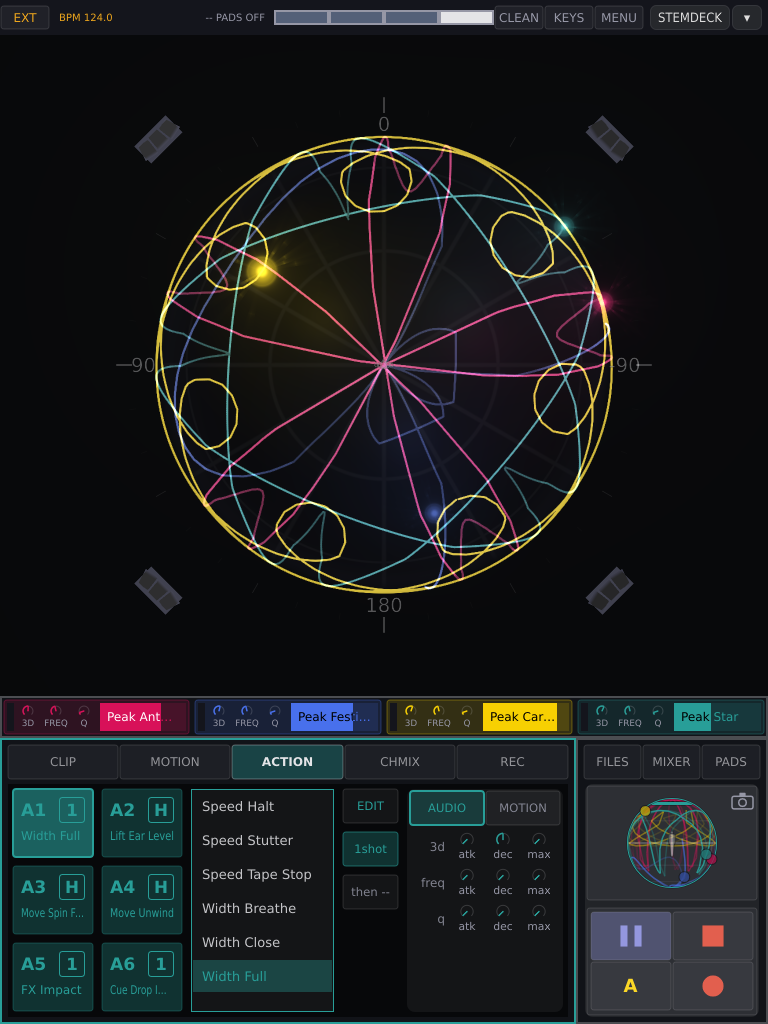
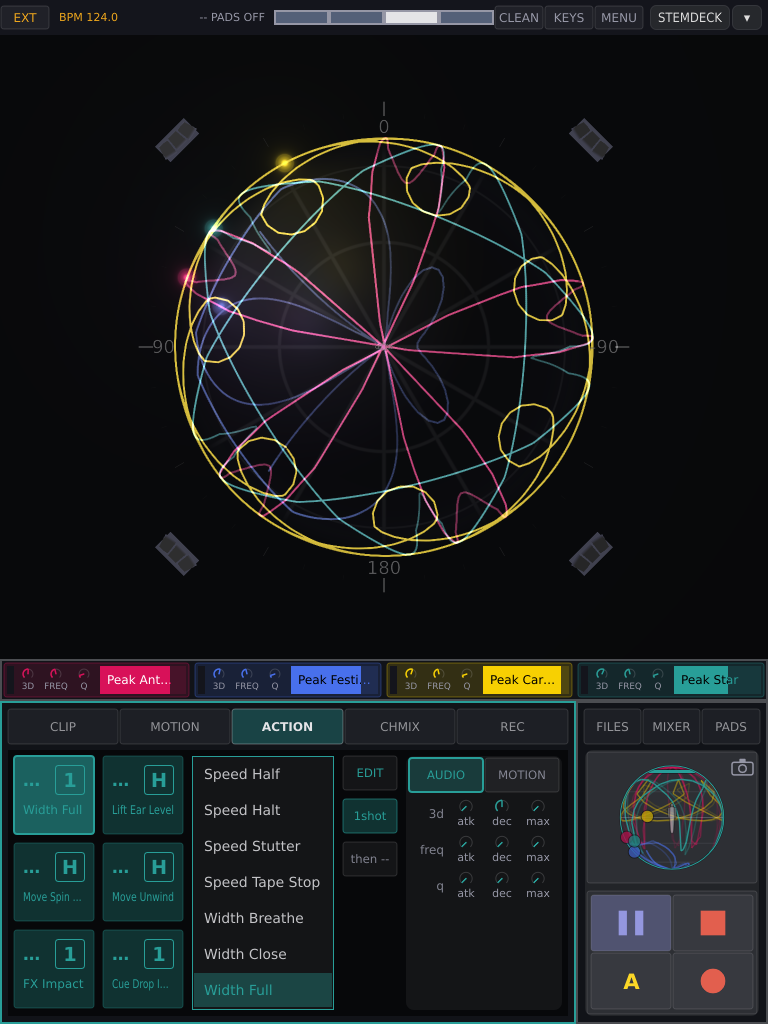
docs(motion): screenshots in quiet-indigo-2, plus the Skin Editor and the keyboard
The first set from c7d55f6 was in the committed config's skin (custom); the sandbox now runs the default skin. The MIXER picture is back in the manual.

diff --git a/src/user/a3motion.md b/src/user/a3motion.md
@@ -950,8 +950,6 @@ preparing.** During a set you need **Load** and nothing else.
 
 ![FILES, with the set "Peak" shown](pics_user/a3-motion-ui-files-sets.png)
 
-<!-- IMAGE: FILES › SETS in quiet-indigo-2, to replace a3-motion-ui-files-sets.png, which is still in the old skin. Not taken on 2026-09-30: opening FILES needs a tap on the rig's running A³ Motion. -->
-
 On the left, top to bottom: the four tabs **SETS**, **CLIPS**, **SVG** and
 **ACTIONS**, two by two; **from set** / **from clip**; the filter; the list;
 then the keys. On the right, the **editor** with the chosen file as text.
@@ -1001,9 +999,7 @@ Anything you turn here, the desk sees too, and the other way round. Tap
 **MIXER** in the global strip; it opens on top of the sphere until you tap
 MIXER again, a tab, or MENU.
 
-<!-- IMAGE: the MIXER overlay, in quiet-indigo-2. Not taken on 2026-09-30: opening it needs a tap on the rig's running A³ Motion. The old
-a3-motion-ui-mixer-overlay.png shows a VOL knob, an MST knob and a filter row
-that are gone. -->
+![The MIXER window over the sphere](pics_user/a3-motion-ui-mixer-overlay.png)
 
 The knobs show what is really set, not what this device last did: a hand on
 the desk moves them here too, and a restart mid-evening brings them back as
@@ -1069,8 +1065,6 @@ screen holds it. A key's face lights while it is active: SHIFT held, a take
 running, the menu open, TAP pressed or on the beat.
 
 ![The PADS window](pics_user/a3-motion-ui-pads.png)
-
-<!-- IMAGE: the PADS window as it is since the PADS panel of 2026-09-30 (square pads on six rows, the function keys at both ends, the grey block), in quiet-indigo-2, to replace a3-motion-ui-pads.png, which shows the earlier layout. Not taken: opening PADS needs a tap on the rig's running A³ Motion. -->
 
 - **Play\|Pause** starts or stops the clip on the **next downbeat**.
   **SHIFT + Play\|Pause** does it now, which is also how you stop a running
@@ -1187,7 +1181,7 @@ fire only on a double tap or ENTER.
   default skin it saves a copy called **custom** and switches to it, so the
   default itself is never written over.
 
-<!-- IMAGE: the Skin Editor with its sections, in quiet-indigo-2. Not taken on 2026-09-30: it has to be taken in the sandbox, never on the rig, because leaving the editor writes the skin. -->
+![The Skin Editor, its sections on the left of the sphere](pics_user/a3-motion-ui-skin-editor.png)
 
 <!-- QUESTION (maintainer): the colour picker has no undo (closeColourPicker keeps what applyPickedColour already wrote into the document) and no Escape, while the edit box undoes the whole document on Escape (_documentBeforeMask). Should the picker undo on back/Escape like the edit box? -->
 
@@ -1232,7 +1226,7 @@ keys, so every key sits above exactly one encoder:
 
 The symbols page holds what scripts, clips and sets are written with.
 
-<!-- IMAGE: the keyboard in the bar's place (768x352 crop from y 672), in quiet-indigo-2. Not taken on 2026-09-30: KEYS needs a tap on the rig's running A³ Motion. -->
+![The keyboard in the bar's place](pics_user/a3-motion-ui-keyboard.png)
 
 - **SHIFT** once: the next letter is a capital. Twice: caps lock. A third
   time: off. The panel's SHIFT held while you tap a key also gives a capital.
